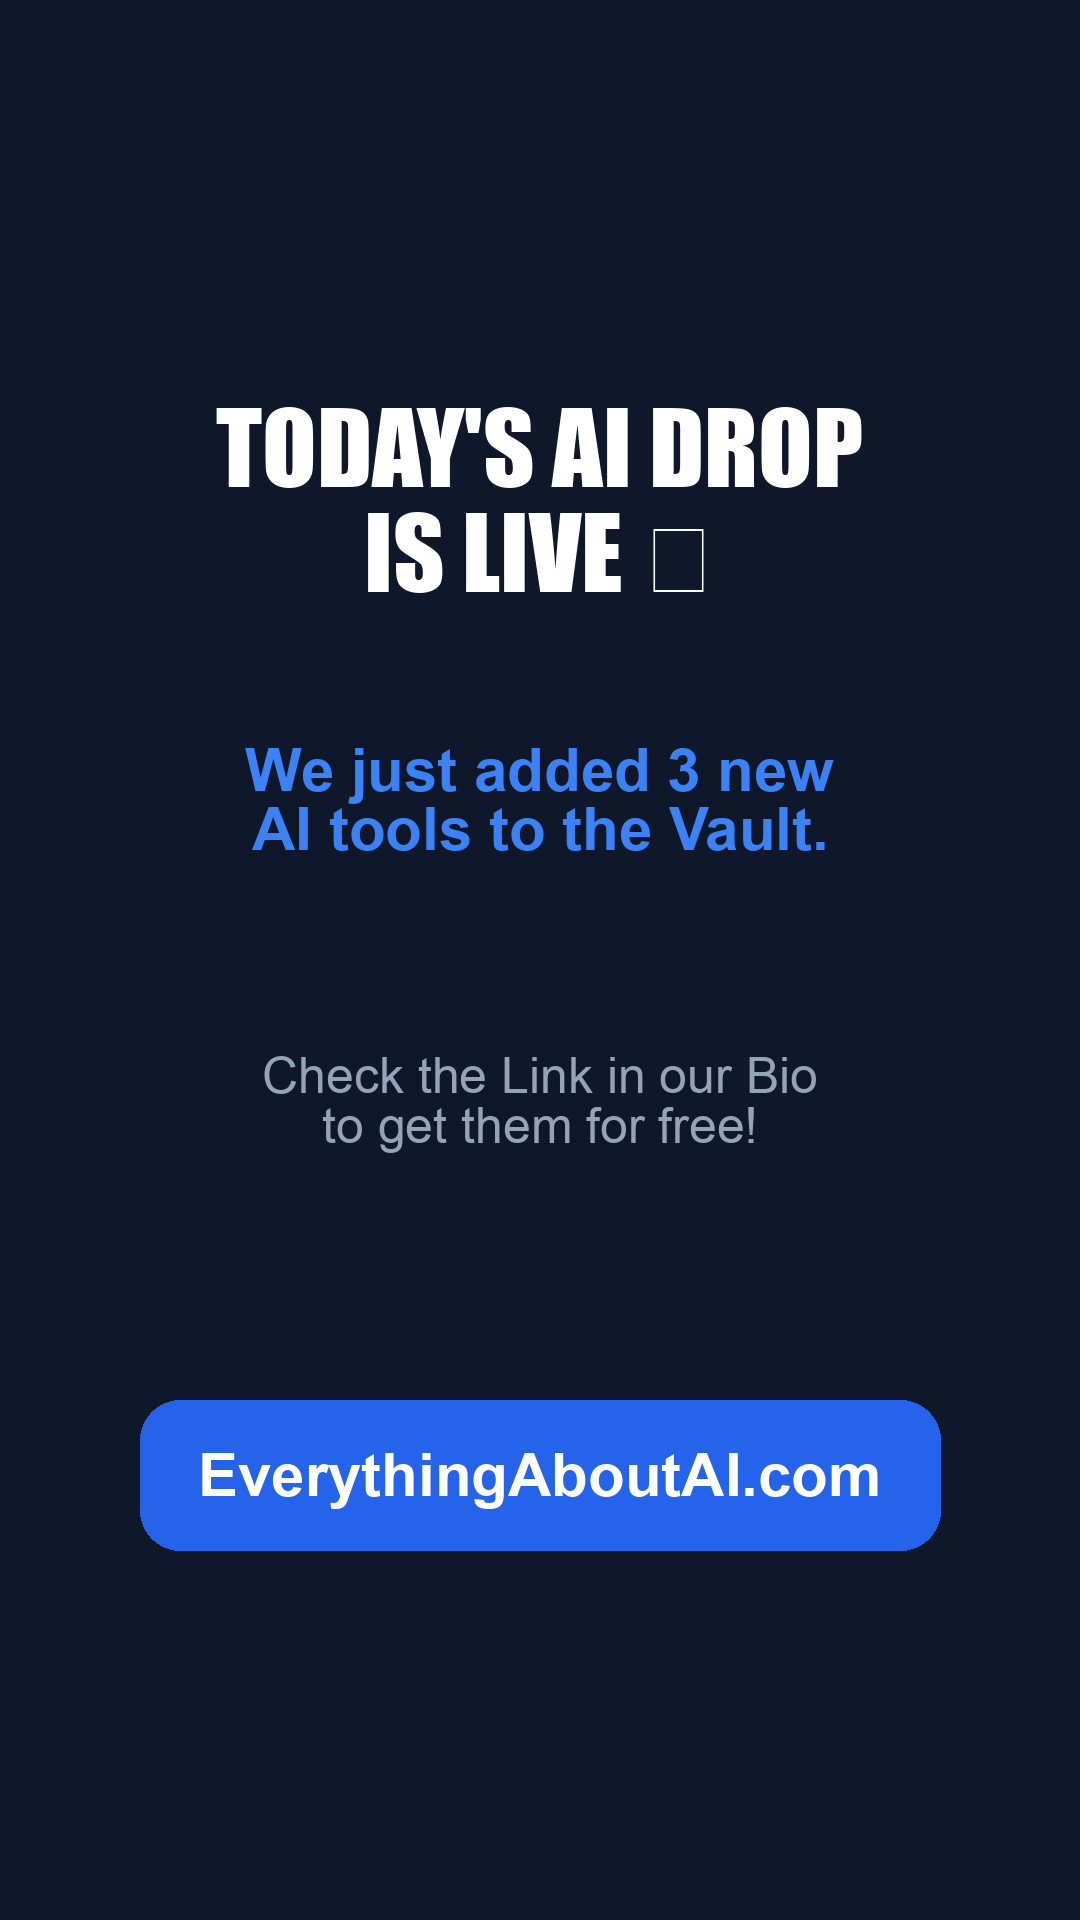
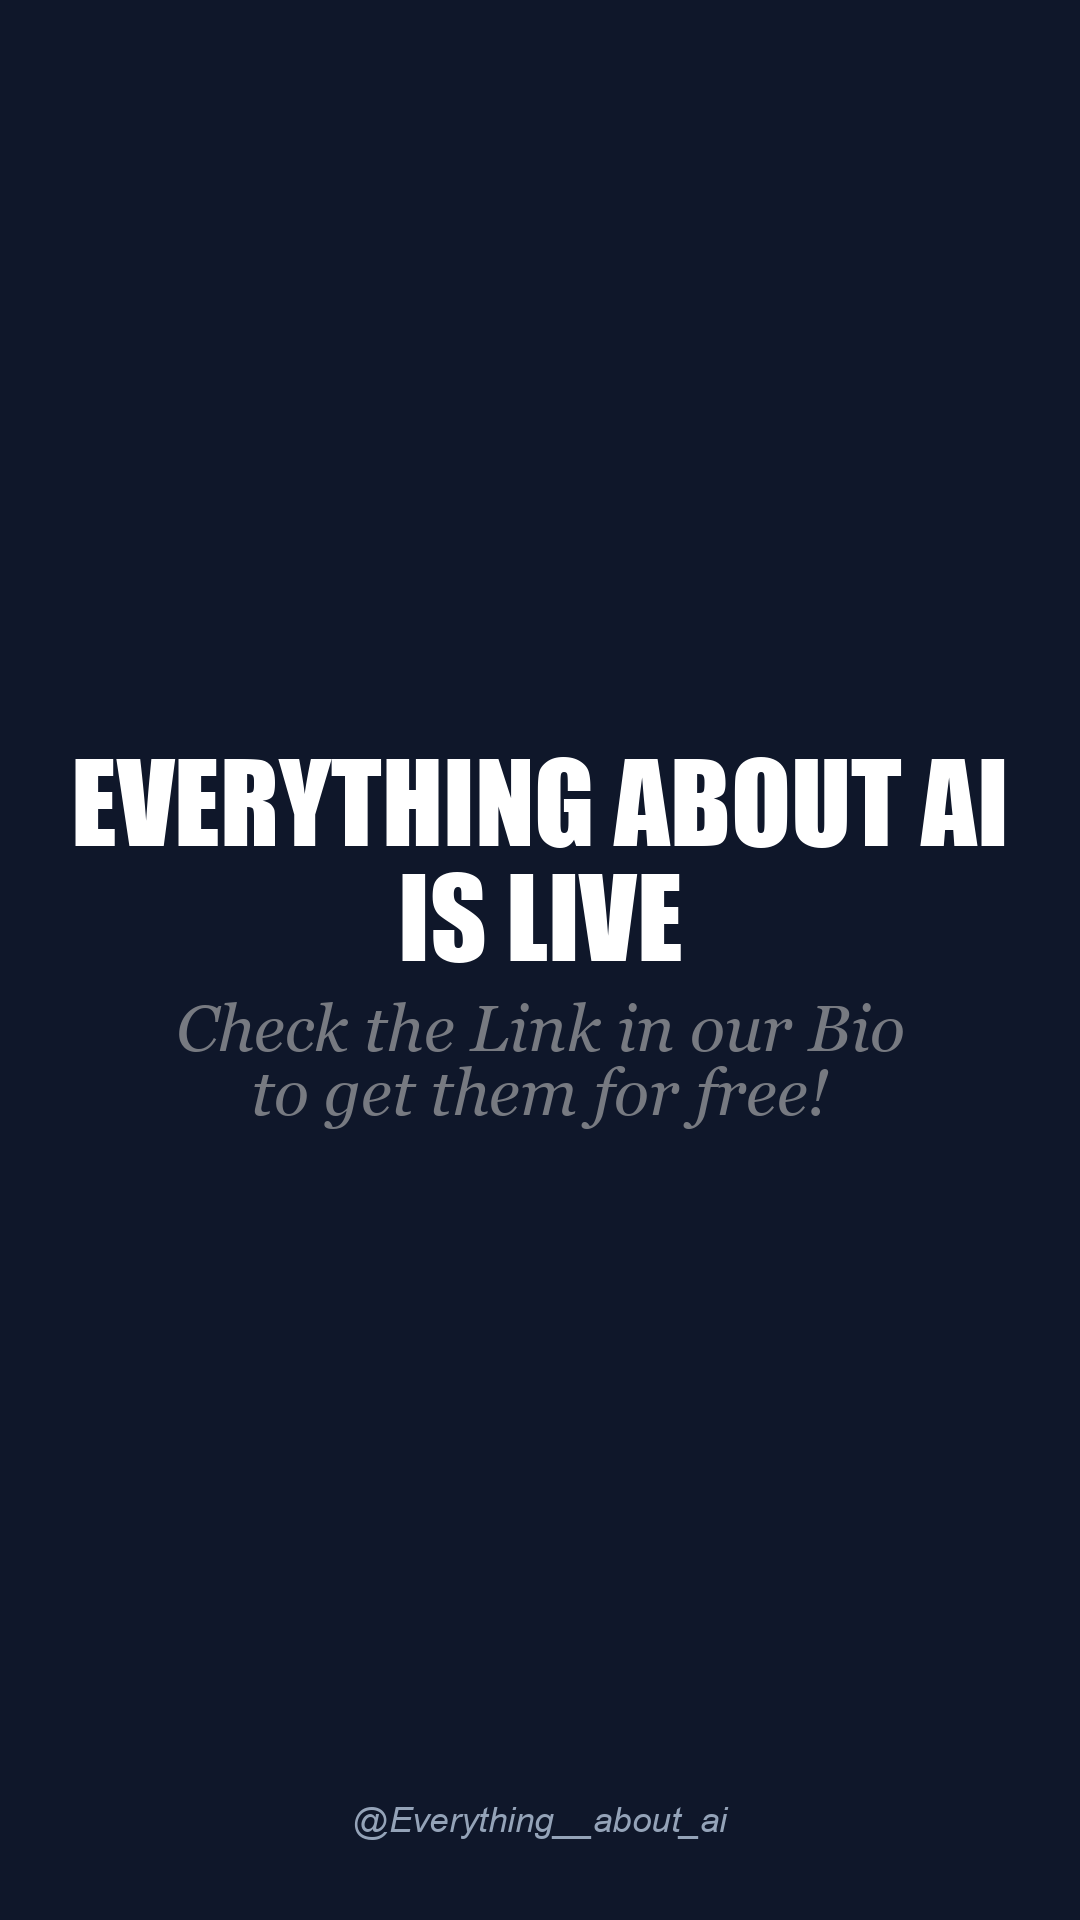
Finalize UI updates, database limit, and elegant story template

diff --git a/docs/style.css b/docs/style.css
@@ -262,8 +262,16 @@ body {
 @media (max-width: 768px) {
     .grid-container {
         grid-template-columns: 1fr;
+        padding: 0 1rem 2rem 1rem;
     }
     .hero h2 {
         font-size: 2rem;
+    }
+    .navbar {
+        margin: 1rem;
+        padding: 1rem;
+    }
+    .navbar h1 {
+        font-size: 1.2rem;
     }
 }

diff --git a/docs/index.html b/docs/index.html
@@ -28,7 +28,7 @@
         <!-- AI Drops Column -->
         <section class="column glass" id="col-drops">
             <div class="column-header">
-                <h3>🚀 AI Drops</h3>
+                <h3>AI Drops</h3>
                 <p>The latest tools & news</p>
             </div>
             <div class="feed" id="feed-drops">
@@ -39,7 +39,7 @@
         <!-- AI Tips Column -->
         <section class="column glass" id="col-tips">
             <div class="column-header">
-                <h3>💡 AI Tips</h3>
+                <h3>AI Tips</h3>
                 <p>Actionable daily hacks</p>
             </div>
             <div class="feed" id="feed-tips">
@@ -50,7 +50,7 @@
         <!-- AI Prompts Column -->
         <section class="column glass" id="col-prompts">
             <div class="column-header">
-                <h3>✍️ AI Prompts</h3>
+                <h3>AI Prompts</h3>
                 <p>Copy & paste workflows</p>
             </div>
             <div class="feed" id="feed-prompts">

diff --git a/create_story_template.py b/create_story_template.py
@@ -1,0 +1,49 @@
+from PIL import Image, ImageDraw, ImageFont
+import os
+
+def create_story_template():
+    width, height = 1080, 1920
+    
+    # Dark blue/black solid background
+    bg_color = (15, 23, 42, 255) # slate-900 with full opacity
+    img = Image.new("RGBA", (width, height), bg_color)
+    
+    # Create an overlay image for transparent drawing
+    txt_layer = Image.new("RGBA", img.size, (255, 255, 255, 0))
+    draw = ImageDraw.Draw(txt_layer)
+    
+    # Try to load a nice font, fallback to default
+    try:
+        title_font = ImageFont.truetype("/System/Library/Fonts/Supplemental/Impact.ttf", 110)
+        # Using Georgia Italic which beautifully mirrors Cardo's serif elegance
+        text_font = ImageFont.truetype("/System/Library/Fonts/Supplemental/Georgia Italic.ttf", 65)
+        watermark_font = ImageFont.truetype("/System/Library/Fonts/Supplemental/Arial Italic.ttf", 35)
+    except:
+        title_font = ImageFont.load_default()
+        text_font = ImageFont.load_default()
+        watermark_font = ImageFont.load_default()
+        
+    # Title (Centered, Pure White)
+    title = "EVERYTHING ABOUT AI\nIS LIVE"
+    draw.text((width//2, height//2 - 100), title, font=title_font, fill=(255, 255, 255, 255), anchor="mm", align="center")
+    
+    # Body (Centered just below title, Transparent Gray)
+    body = "Check the Link in our Bio\nto get them for free!"
+    # Transparent Gray (R, G, B, Alpha)
+    draw.text((width//2, height//2 + 100), body, font=text_font, fill=(180, 180, 180, 160), anchor="mm", align="center")
+    
+    # Watermark (Pushed all the way to the bottom)
+    watermark_str = "@Everything__about_ai"
+    draw.text((width//2, height - 100), watermark_str, font=watermark_font, fill=(148, 163, 184, 255), anchor="mm")
+    
+    # Composite the text layer over the background
+    final_img = Image.alpha_composite(img, txt_layer)
+    # Convert back to RGB for saving as PNG without massive file size if desired, but PNG supports RGBA
+    
+    # Save
+    os.makedirs("docs", exist_ok=True)
+    final_img.save("docs/story_bg.png")
+    print("Story template successfully regenerated to docs/story_bg.png")
+
+if __name__ == "__main__":
+    create_story_template()

diff --git a/database.py b/database.py
@@ -70,8 +70,8 @@ def save_to_database(post_content: PostContent, post_type: str):
     data = load_db(db_path)
     data.insert(0, new_entry) # Add to the top of the feed
     
-    # Keep the last 100 entries
-    if len(data) > 100:
-        data = data[:100]
+    # Keep only the last 7 entries (7 days limit)
+    if len(data) > 7:
+        data = data[:7]
         
     save_db(db_path, data)